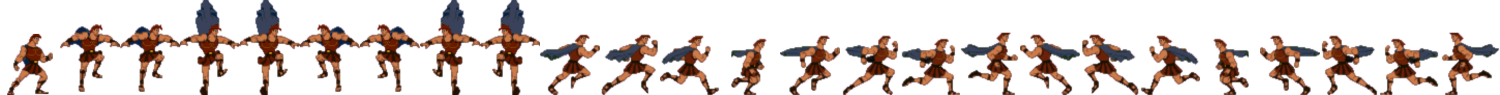
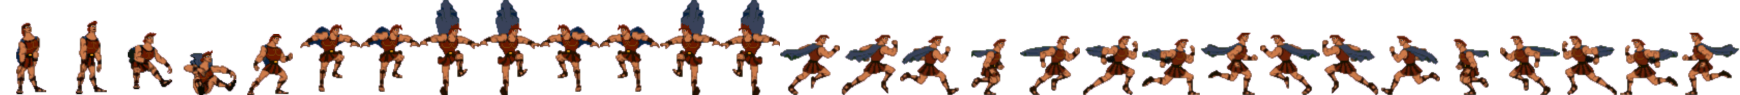
main-sceneの実装_2 ⇒以下の部分を実装しました。 　・敵の設定(個々randomに動きます) 　・プレイヤーと敵の衝突アクションを追加

diff --git a/scenes/main-scene.ts b/scenes/main-scene.ts
@@ -9,6 +9,13 @@ const MAIN_HEIGHT = 600;         // メイン画面のheight
 const WORLD_RECORD_SPEED = 5.67; // マラソンの男子世界記録[m/s]
 const PLAYER_SPEED_X = 160;      // プレイヤーの速度(x) [p/s]
 const PLAYER_SPEED_Y = 330;      // プレイヤーの速度(y) [p/s]
+const ENEMY_SPEED_X = 160;       // 敵の速度(x) [p/s]
+const ENEMY_SPEED_Y = 330;       // 敵の速度(y) [p/s]
+const ENEMY_STEP_X = 500;        // 敵の間隔(x)
+const ENEMY_BY_FRAME = 20;       // 敵の挙動不審具合[f] (低い：よく動く, 高い：あまり動かない)
+const HIT_SPEED_X = 160;         // 衝突時の速度(x) [p/s]
+const HIT_SPEED_Y = 200;         // 衝突時の速度(y) [p/s]
+
 
 // ゲームオブジェクト
 let timer;
@@ -16,7 +23,10 @@ let bgm;
 let soundGoal;
 let soundRun;
 let soundJump;
+let soundDamaging;
 let player;
+let playerDamaging = false;  // プレイヤーのState(ダメージ状態)
+let enemies;
 let coins;
 let bombs;
 let goals;
@@ -27,6 +37,8 @@ let gameOver = false;
 let timeText;
 let scoreText;
 let clearText;
+let updateByFrame = 0;        // ※Update()で使用
+
 
 export default class MainScene extends Phaser.Scene {
   private acorn: Phaser.Physics.Arcade.Image;
@@ -45,6 +57,7 @@ export default class MainScene extends Phaser.Scene {
     this.load.audio('soundGoal', ['../assets/sound/main_goal.mp3']); // ゴール音
     this.load.audio('soundRun', ['../assets/sound/main_run.mp3']); // 走る音
     this.load.audio('soundJump', ['../assets/sound/main_jump.mp3']); // ジャンプ音
+    this.load.audio('soundDamaging', ['../assets/sound/main_damaging.mp3']); // ダメージ音
     this.load.image('sky', '../assets/main_background.png'); // 背景
     this.load.image('ground', '../assets/main_ground.png');  // 地面
     this.load.image('block', '../assets/main_block.png');   // 壁
@@ -53,6 +66,7 @@ export default class MainScene extends Phaser.Scene {
     this.load.image('goal', '../assets/main_goal.png');      // ゴール
     this.load.image('backButton', '../assets/back.png');      // 戻るボタン
     this.load.spritesheet('player', 'assets/soldier_60x95.png', { frameWidth: 60, frameHeight: 95 }); // プレイヤー
+    this.load.spritesheet('enemy', 'assets/enemy_65x81.png', { frameWidth: 65, frameHeight: 81 }); // 敵
   }
 
   // 初期化
@@ -77,6 +91,7 @@ export default class MainScene extends Phaser.Scene {
     soundGoal = this.sound.add('soundGoal',{ volume: 1 });
     soundRun = this.sound.add('soundRun',{ volume: 0.5, loop: true });
     soundJump = this.sound.add('soundJump',{ volume: 0.5 });
+    soundDamaging = this.sound.add('soundDamaging', {volume: 1});
 
     // 背景の設定
     this.autoFill(0, 0, 800, 600, function(scene, x, y){
@@ -108,35 +123,88 @@ export default class MainScene extends Phaser.Scene {
     this.cameras.main.startFollow(player, true);
 
     this.anims.create({
-        key: 'turn',
-        frames: [{ key: 'player', frame: 0 }],
-        frameRate: 20
-    });
-
-    this.anims.create({
-      key: 'up-right',
-      frames: this.anims.generateFrameNumbers('player', { start: 1, end: 4 }),
+      key: 'damaging',
+      frames: this.anims.generateFrameNumbers('player', { start: 0, end: 3 }),
       frameRate: 3,
       repeat: 1
     });
 
     this.anims.create({
-      key: 'up-left',
+        key: 'turn',
+        frames: [{ key: 'player', frame: 4 }],
+        frameRate: 20
+    });
+
+    this.anims.create({
+      key: 'up-right',
       frames: this.anims.generateFrameNumbers('player', { start: 5, end: 8 }),
       frameRate: 3,
       repeat: 1
     });
 
     this.anims.create({
+      key: 'up-left',
+      frames: this.anims.generateFrameNumbers('player', { start: 9, end: 12 }),
+      frameRate: 3,
+      repeat: 1
+    });
+
+    this.anims.create({
         key: 'right',
-        frames: this.anims.generateFrameNumbers('player', { start: 9, end: 16 }),
+        frames: this.anims.generateFrameNumbers('player', { start: 13, end: 20 }),
         frameRate: 10,
         repeat: -1
     });
 
     this.anims.create({
       key: 'left',
-      frames: this.anims.generateFrameNumbers('player', { start: 17, end: 24 }),
+      frames: this.anims.generateFrameNumbers('player', { start: 21, end: 28 }),
+      frameRate: 10,
+      repeat: -1
+    });
+
+    // 敵の設定
+    enemies = this.physics.add.group({
+          key: 'enemy',
+          repeat: Math.floor(GOAL_X / ENEMY_STEP_X),
+          setXY: { x: ENEMY_STEP_X, y: 0, stepX: ENEMY_STEP_X }
+    });
+    
+    enemies.children.iterate(function (enemy) {
+          enemy.setBounce(0.2);
+          enemy.setCollideWorldBounds(true);
+    });
+    
+    this.anims.create({
+      key: 'enemy-turn',
+      frames: [{ key: 'enemy', frame: 0 }],
+      frameRate: 20
+    });
+
+    this.anims.create({
+      key: 'enemy-up-right',
+      frames: this.anims.generateFrameNumbers('enemy', { start: 1, end: 2 }),
+      frameRate: 3,
+      repeat: 1
+    });
+
+    this.anims.create({
+      key: 'enemy-up-left',
+      frames: this.anims.generateFrameNumbers('enemy', { start: 3, end: 4 }),
+      frameRate: 3,
+      repeat: 1
+    });
+
+    this.anims.create({
+      key: 'enemy-right',
+      frames: this.anims.generateFrameNumbers('enemy', { start: 5, end: 12 }),
+      frameRate: 10,
+      repeat: -1
+    });
+
+    this.anims.create({
+      key: 'enemy-left',
+      frames: this.anims.generateFrameNumbers('enemy', { start: 13, end: 20 }),
       frameRate: 10,
       repeat: -1
     });
@@ -168,76 +236,90 @@ export default class MainScene extends Phaser.Scene {
     scoreText = this.add.text(16, 48, 'score: 0', { fontSize: '32px'});
     scoreText.setScrollFactor(0);
 
-    // 衝突判定の設定。地面は、コイン・プレイヤー・爆弾と衝突する。これがないと地面を貫通してしまう
+    // 衝突判定の設定。地面は、コイン・プレイヤー・爆弾・敵と衝突する。これがないと地面を貫通してしまう
     this.physics.add.collider(player, platforms);
+    this.physics.add.collider(enemies, platforms);
     // this.physics.add.collider(coins, platforms);
     // this.physics.add.collider(bombs, platforms);
 
     // プレイヤーとコインが重なれば、collectCoin() を呼び出す
     // this.physics.add.overlap(player, coins, this.collectCoin, null, this);
     // this.physics.add.collider(player, bombs, this.hitBomb, null, this);
+    this.physics.add.overlap(player, enemies, this.hitEnemy, null, this);
     this.physics.add.overlap(player, goals, this.gameClear, null, this);
   }
   
   // ゲーム進行中に呼び出す
   update() {
-      // ゲームオーバーになったら処理終了(クリア時もここに入る)
+    // ゲームオーバーになったら処理終了(クリア時もここに入る)
     if (gameOver) {
       return;
     }
 
-    // ←キー押下
-    if (cursors.left.isDown) {
-      player.setVelocityX(-PLAYER_SPEED_X);
+    // プレイヤーを更新
+    if(playerDamaging){
+      player.anims.play('damaging', true);
+      // 1秒待機
+      setTimeout(() => {
+        player.setTint(0xffffff);
+        playerDamaging = false;
+      }, 1000);
+    }
+    else{
+      // ←キー押下
+      if (cursors.left.isDown) {
+        player.setVelocityX(-PLAYER_SPEED_X);
 
-      if(!player.body.touching.down){
-        player.anims.play('up-left', true);
-      }
-      else{
-        player.anims.play('left', true);
+        if(!player.body.touching.down){
+          player.anims.play('up-left', true);
+        }
+        else{
+          player.anims.play('left', true);
 
-        if(!soundRun.isPlaying){
-          soundRun.play();
+          if(!soundRun.isPlaying){
+            soundRun.play();
+          }
         }
       }
-    }
 
-    // →キー押下
-    else if (cursors.right.isDown) {
-      player.setVelocityX(PLAYER_SPEED_X);
+      // →キー押下
+      else if (cursors.right.isDown) {
+        player.setVelocityX(PLAYER_SPEED_X);
 
-      if(!player.body.touching.down){
-        player.anims.play('up-right', true);
-      }
-      else{
-        player.anims.play('right', true);
+        if(!player.body.touching.down){
+          player.anims.play('up-right', true);
+        }
+        else{
+          player.anims.play('right', true);
 
-        if(!soundRun.isPlaying){
-          soundRun.play();
+          if(!soundRun.isPlaying){
+            soundRun.play();
+          }
         }
       }
-    }
 
-    else {
-      player.setVelocityX(0);
+      else {
+        player.setVelocityX(0);
 
-      soundRun.stop();
+        soundRun.stop();
 
-      if(!player.body.touching.down){ 
-        player.anims.play('up-right', true);
+        if(!player.body.touching.down){ 
+          player.anims.play('up-right', true);
+        }
+        else{
+          player.anims.play('turn');
+        }
       }
-      else{
-        player.anims.play('turn');
+
+      // ↑キー押下
+      if (cursors.up.isDown && player.body.touching.down) {
+        player.setVelocityY(-PLAYER_SPEED_Y);
+
+        soundRun.stop();
+        soundJump.play();
       }
     }
-
-    // ↑キー押下
-    if (cursors.up.isDown && player.body.touching.down) {
-      player.setVelocityY(-PLAYER_SPEED_Y);
-
-      soundRun.stop();
-      soundJump.play();
-    }
+    
   
     // プレイ時間を設定
     let elapsedSeconds = timer.getElapsedSeconds();
@@ -249,6 +331,51 @@ export default class MainScene extends Phaser.Scene {
     score = this.convertXToMeter(player.body.position.x);
     let score_km = Math.floor(score / 1000);
     scoreText.setText('Score: ' + ((score_km === 0) ? '' : score_km + "km ") + (score % 1000) + 'm');
+
+    // 敵を更新
+    updateByFrame++;
+    if(updateByFrame == ENEMY_BY_FRAME){
+      enemies.children.iterate(function (enemy){
+        let random_rate = Math.random();
+        if(random_rate < 0.3){
+          enemy.setVelocityX(-ENEMY_SPEED_X);
+
+          if(!enemy.body.touching.down){
+            enemy.anims.play('enemy-up-left', true);
+          }
+          else{
+            enemy.anims.play('enemy-left', true);
+          }
+        }
+        else if(random_rate < 0.6){
+          enemy.setVelocityX(ENEMY_SPEED_X);
+
+          if(!enemy.body.touching.down){
+            enemy.anims.play('enemy-up-right', true);
+          }
+          else{
+            enemy.anims.play('enemy-right', true);
+          }
+        }
+        else if(random_rate < 0.9){
+          enemy.setVelocityX(0);
+
+          if(!enemy.body.touching.down){
+            enemy.anims.play('enemy-up-right', true);
+          }
+          else{
+            enemy.anims.play('enemy-turn');
+          }
+        }
+        else{
+          if(enemy.body.touching.down){
+            enemy.setVelocityY(-ENEMY_SPEED_Y);
+          }
+        }
+      });
+
+      updateByFrame = 0;
+    }
   }
   
   // // コインと接触した時
@@ -285,6 +412,15 @@ export default class MainScene extends Phaser.Scene {
   //   player.anims.play('turn');
   //   gameOver = true;
   // }
+
+  // 敵と接触したとき
+  hitEnemy(player, enemy){
+    soundDamaging.play();
+    player.setTint(0xff0000);
+    player.setVelocityX(-HIT_SPEED_X);
+    player.setVelocityY(-HIT_SPEED_Y);
+    playerDamaging = true;
+  }
   
   // ゴールと接触した時
   gameClear(){
